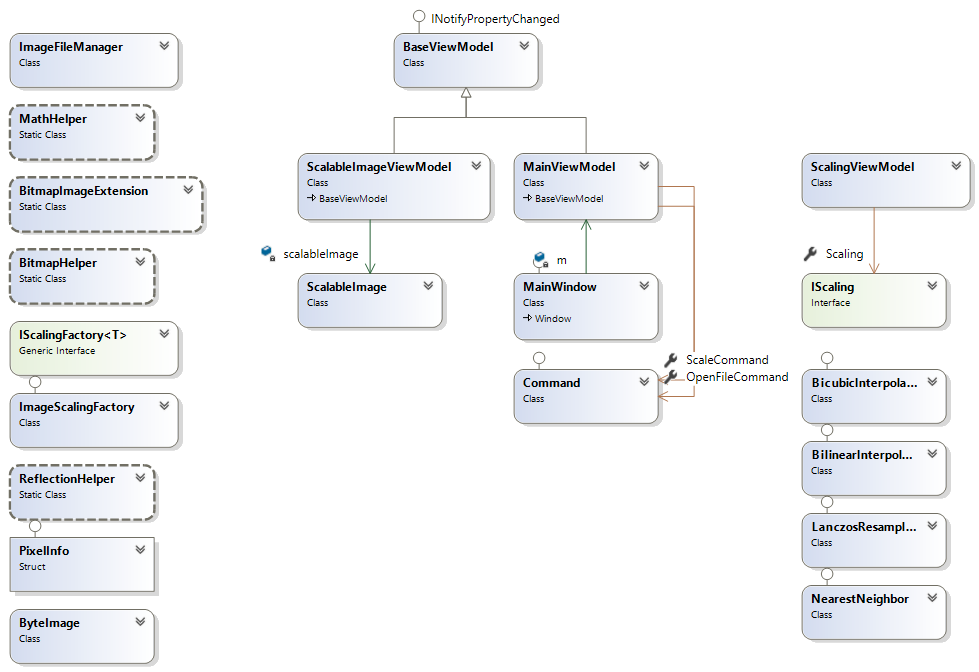
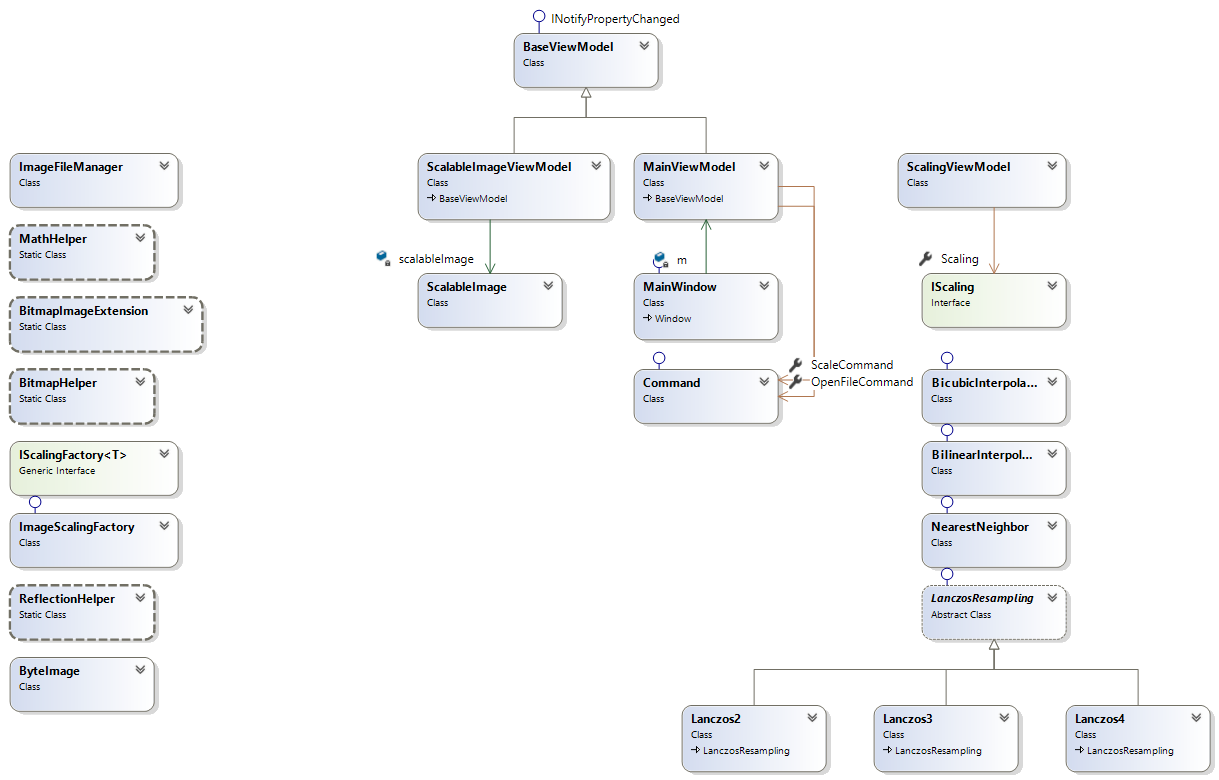
Добавлены отдельные классы для интерполяции Ланцоша с порядком 2, 3 и 4

diff --git a/ImageUpscaling/Scaling/Interpolation/LanczosResampling.cs b/ImageUpscaling/Scaling/Interpolation/LanczosResampling.cs
@@ -11,9 +11,9 @@ namespace ImageUpscaling.Scaling.Interpolation
     /// <summary>
     /// Масштабирование Ланцоша
     /// </summary>
-    class LanczosResampling : IScaling
+    abstract class LanczosResampling : IScaling
     {
-        int A { get; } = 3;
+        protected abstract int A { get; }
 
         public string Title => $"Фильтр Ланцоша {A}";
 
@@ -44,13 +44,13 @@ namespace ImageUpscaling.Scaling.Interpolation
 
                             double wTemp = LanczosKernel(x * coef - fX) * LanczosKernel(y * coef - fY);
                             weight += wTemp;
-                            for (int b = 0; b < sourceImage.BytePerPixel; b++)
+                            for (int b = 0; b < sourceImage.BytePerPixel; ++b)
                             {
                                 channelData[b] += sourceImage[fY, fX, b] * wTemp;
                             }
                         }
                     }
-                    for (int b = 0; b < sourceImage.BytePerPixel; b++)
+                    for (int b = 0; b < sourceImage.BytePerPixel; ++b)
                     {
                         image[y, x, b] = MathHelper.Clamp(channelData[b] / weight);
                     }

diff --git a/ImageUpscaling/Scaling/Interpolation/Lanczos2.cs b/ImageUpscaling/Scaling/Interpolation/Lanczos2.cs
@@ -1,0 +1,16 @@
+using System;
+using System.Collections.Generic;
+using System.Linq;
+using System.Text;
+using System.Threading.Tasks;
+
+namespace ImageUpscaling.Scaling.Interpolation
+{
+    /// <summary>
+    /// Интерполяция Ланцоша с порядком 2
+    /// </summary>
+    class Lanczos2 : LanczosResampling
+    {
+        protected override int A => 2;
+    }
+}

diff --git a/ImageUpscaling/Scaling/Interpolation/Lanczos3.cs b/ImageUpscaling/Scaling/Interpolation/Lanczos3.cs
@@ -1,0 +1,16 @@
+using System;
+using System.Collections.Generic;
+using System.Linq;
+using System.Text;
+using System.Threading.Tasks;
+
+namespace ImageUpscaling.Scaling.Interpolation
+{
+    /// <summary>
+    /// Интерполяция Ланцоша с порядком 3
+    /// </summary>
+    class Lanczos3 : LanczosResampling
+    {
+        protected override int A => 3;
+    }
+}

diff --git a/ImageUpscaling/Scaling/Interpolation/Lanczos4.cs b/ImageUpscaling/Scaling/Interpolation/Lanczos4.cs
@@ -1,0 +1,16 @@
+using System;
+using System.Collections.Generic;
+using System.Linq;
+using System.Text;
+using System.Threading.Tasks;
+
+namespace ImageUpscaling.Scaling.Interpolation
+{
+    /// <summary>
+    /// Интерполяция Ланцоша с порядком 4
+    /// </summary>
+    class Lanczos4 : LanczosResampling
+    {
+        protected override int A => 4;
+    }
+}
